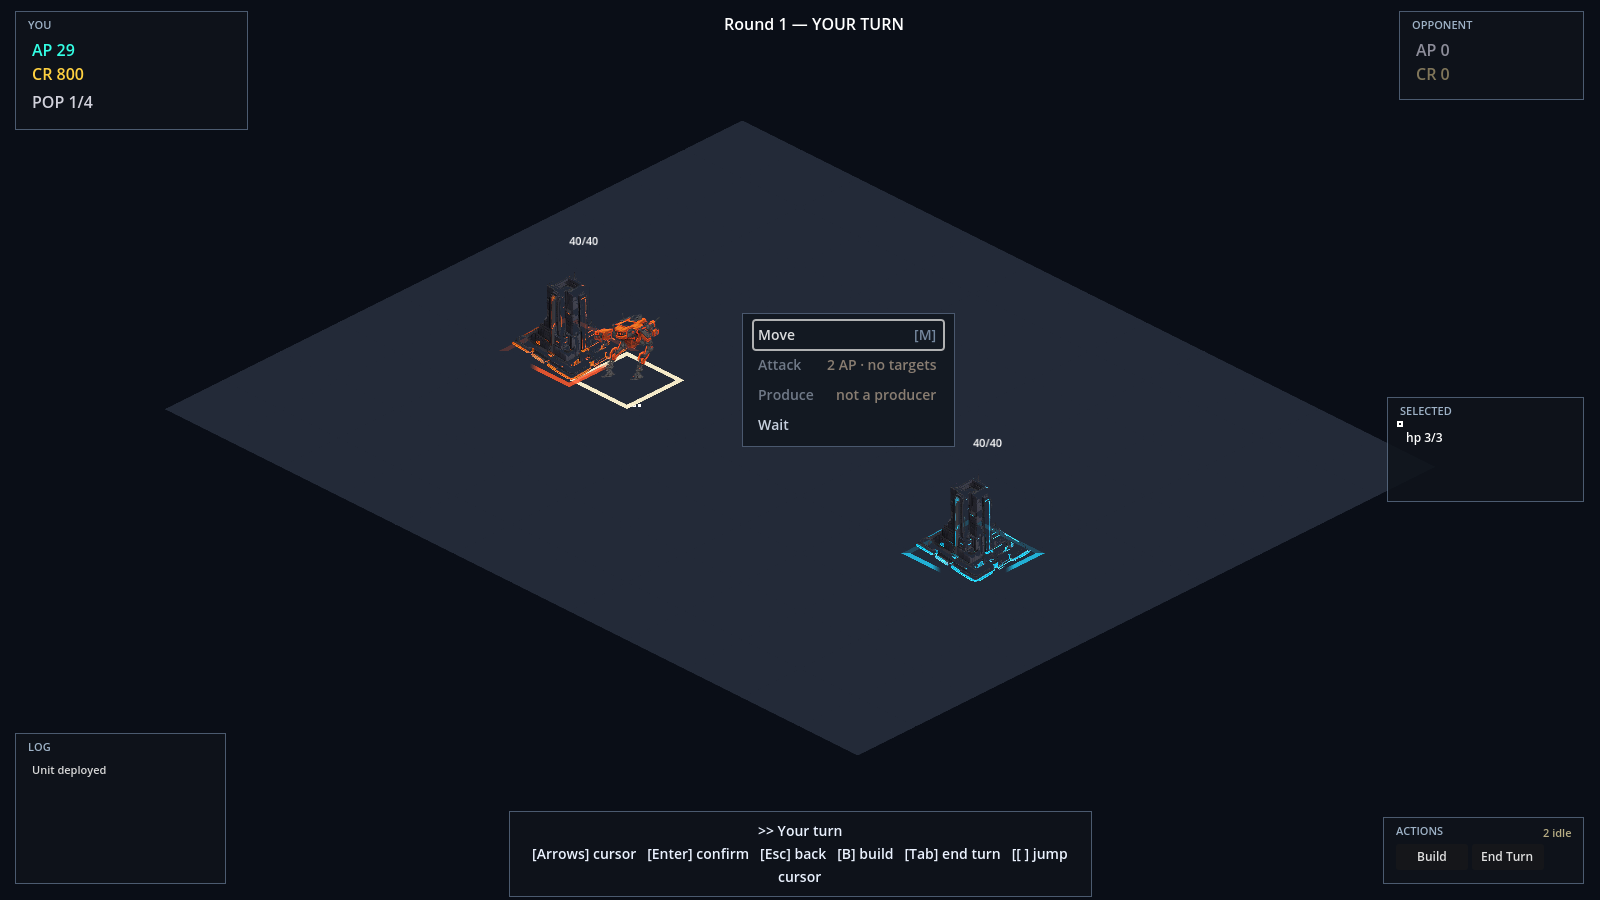
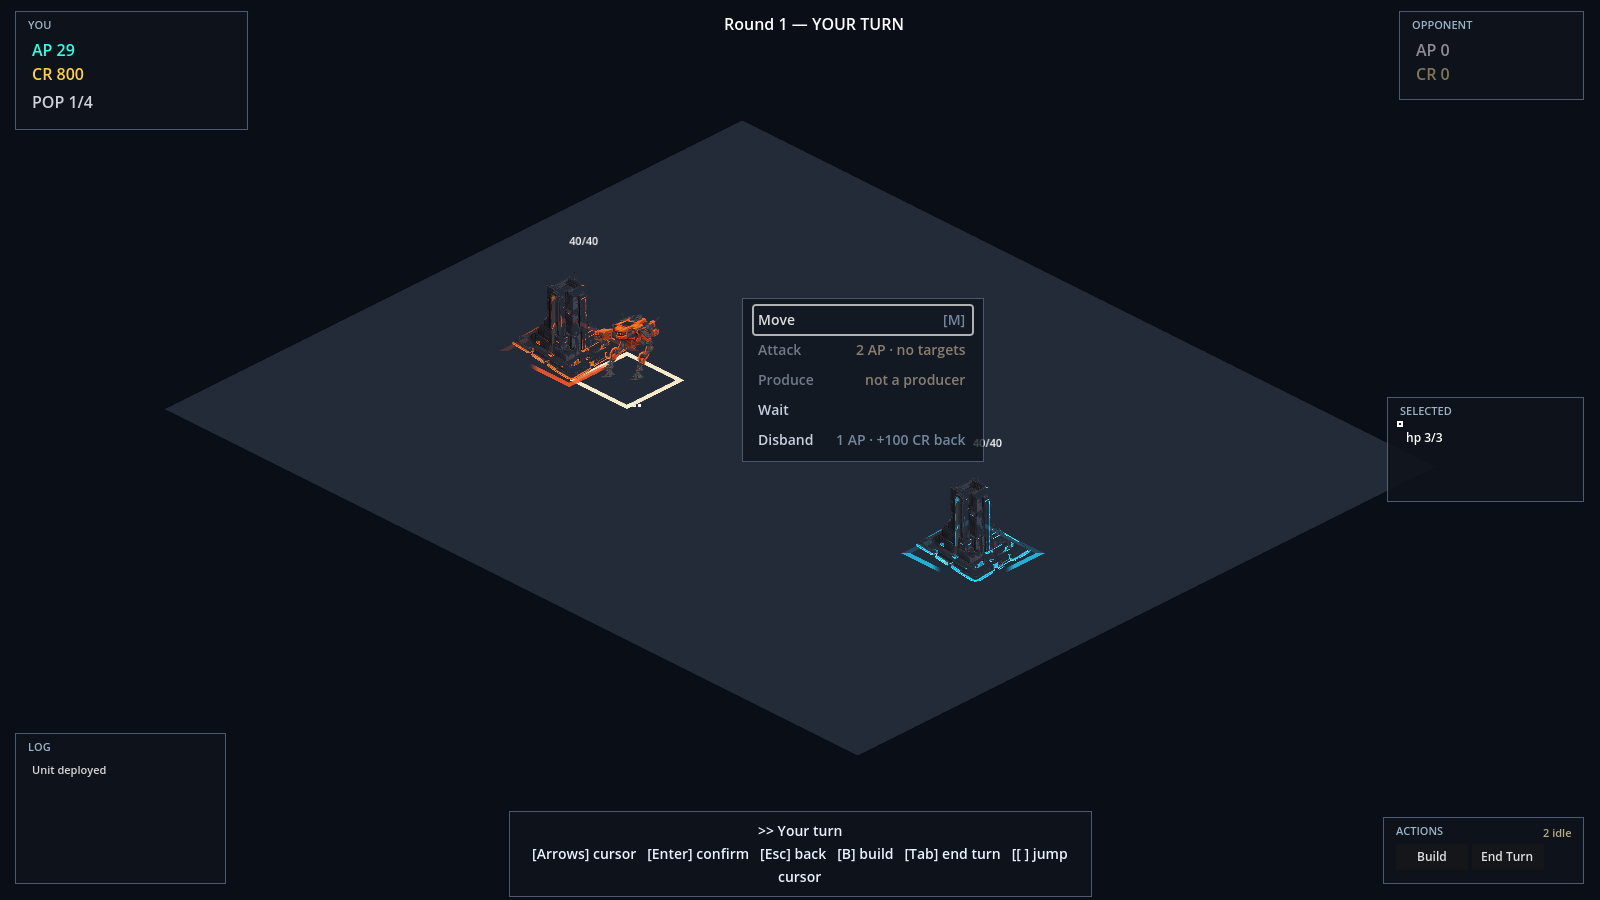
feat(cai): give Disband a menu row — resolves OQ-3, the last open question
DisbandAction has existed since S6-02 and was reachable from nothing at all: no
key, no button, no row. It is the escape valve unit-upkeep.md UR-7 builds the
whole deficit lock around, and a player in deficit had no way to reach it.

The row shows BOTH halves of the trade before either press — "1 AP · +100 CR
back". Disband is the only verb that spends and pays out, and a player weighing it
against simply holding the unit needs both figures, not one.

TWO PRESSES, like every destructive verb, and it matters more here than for
Cancel Build. Cancel Build only appears on an under-construction structure, which
is rare; Disband is on EVERY unit, EVERY turn. Without the gate an irreversible
action would sit one careless click away on almost every menu in the game. The
gate generalised cleanly — DESTRUCTIVE_VERBS is now the list that decides it, with
per-verb armed labels, because "Confirm cancel" on a Disband row would name the
wrong act at the exact moment the player is being asked to be sure. A test asserts
every verb on that list has an armed label: one missing from the list would commit
on a single press and nothing else would catch it.

Structures never get the row (UR-7), dropped rather than greyed — the same rule
that drops Cancel Build from a scout, now generalised to "disabled because it does
not apply to this KIND of entity" rather than being spelled per-verb. Disabled
because of the SITUATION still earns its row; that is what teaches the rules.
[…]

Changed region(s): [[0.4688, 0.3111, 0.625, 0.4978]]

diff --git a/design/ux/action-menu.md b/design/ux/action-menu.md
@@ -152,7 +152,7 @@ only placement that reads as belonging to its button.
 | Menu plate | `HudPanel` palette (`BACKING` / `BORDER`) so it reads as the same HUD, not as OS chrome | — (chrome, not interaction) |
 | Verb row | Label + right-hand column: the verb's AP price where it has a single one, then its shortcut or its disablement reason | **Standard Button** |
 | Disabled verb row | Same row, dimmed label + reason text; visible, never hidden, never recoloured | **Affordability Dimming** |
-| Cancel Build row | Shows the refund up front; arms on first activation, commits on second | **Hold-to-Confirm Refund** (toggle variant — see decision 5) |
+| Destructive rows (Cancel Build, Disband) | Show the payout up front; arm on first activation, commit on second, relabel while armed | **Hold-to-Confirm Refund** (toggle variant — see decision 5) |
 | Submenu plate | Second plate, same palette, listing produce/build options with dual costs | **Standard Button** + **Affordability Dimming** |
 | Focus indicator | Engine-native focus ring, a distinct `StyleBox` from hover | **Three-State Focus Indicator** |
 | Back-out | Right-click / ESC / pad B, one level per press | **Standard Cancel** |
@@ -433,7 +433,7 @@ those words describe is queried, never stored here.
   | Priced verb column (worst case) | "2 AP · no targets, needs AP" (27) | **54** | A price, a middle dot, then the multi-reason budget above. The widest right-hand column the verb menu can produce |
   | Unit / structure name | "Defensive Structure" (19) | **24** | Widens the picker only |
   | Cost line | "600 CR + 2 AP" (13) | **20** | Currency abbreviations are themselves translatable |
-  | Armed-confirm label | "Confirm cancel" (14) | **20** | Must stay visibly different from "Cancel Build", or the arm state reads as no change |
+  | Armed-confirm label | "Confirm cancel" (14), "Confirm disband" (15) | **20** | Must stay visibly different from its resting label ("Cancel Build", "Disband"), or the arm state reads as no change |
 
   ⚠ **The last row is a correctness constraint, not a layout one.** The arm-then-confirm gate
   (decision 5) works because the row visibly changes; a translation whose confirm label reads
@@ -475,6 +475,9 @@ depends on game rules, the *set-up* is stated so the expected result follows fro
 | AC-2 | Select a unit that has already moved and attacked this turn. The menu still opens; Wait is the only bright row and every other row is dimmed with a short phrase beside it saying why | Integration |
 | AC-3 | Click an enemy unit, then empty ground. No menu appears in either case; the SELECTED panel still shows what was clicked | Integration |
 | AC-4 | Select a unit with no enemy in range and zero AP. The Attack row names **both** problems, not just the first | Logic |
+| AC-28 | Select any of your units. A Disband row is present, stating both what it costs and what it returns. Activate it once: the unit survives and the row reads "Confirm disband". Activate again: the unit is gone and the Credits arrive | Integration |
+| AC-29 | Select a structure. There is no Disband row at all | Integration |
+| AC-30 | Arm Disband, then press Esc. The row reads "Disband" again, the unit is alive, and nothing was deselected | Integration |
 | AC-27 | Select a unit with an enemy adjacent and AP to spare. The Attack row states what attacking costs, alongside its shortcut, before any preview is opened. Drain the AP and re-select: the row still states the cost, now beside the reason | Integration |
 | AC-5 | With the menu open, press ↓ repeatedly. Focus visits only bright rows and never lands on a dimmed one. Clicking a dimmed row does nothing | Integration |
 | AC-6 | The menu never touches the sprite it belongs to: there is at least one tile of clear board between the entity and the menu's near edge | Logic |
@@ -534,8 +537,29 @@ accessibility item. It is now arm-then-confirm — see decision 5. *Kept visible
 "the two-step selection is already a confirmation" is a tempting argument and it was wrong, which is
 worth remembering.*
 
-**OQ-3 — Does the menu need a Disband row?** `DisbandAction` exists and is reachable from nothing.
-Out of scope here; named so it is not lost.
+**~~OQ-3~~ — RESOLVED 2026-08-25.** Disband now has a row on every own unit's menu, showing both
+halves of its trade up front (`1 AP · +100 CR back`) — it is the only verb that spends *and* pays
+out, and a player weighing it against simply holding the unit needs both figures before committing
+to anything. Structures never get the row at all (UR-7: structures are not disbanded), dropped
+rather than greyed, on the same rule that drops Cancel Build from a scout.
+
+**It takes two presses**, like every destructive verb — the *Hold-to-Confirm Refund* class. That
+matters more here than for Cancel Build: Cancel Build only appears on an under-construction
+structure, which is rare, whereas Disband is on **every unit, every turn**. Without the gate, an
+irreversible action would sit one careless click away on almost every menu in the game.
+`ActionMenu.DESTRUCTIVE_VERBS` is the list that decides this, and a test asserts every verb on it
+has an armed-state label — a destructive verb missing from the list would commit on one press with
+nothing else to catch it.
+
+**Not gated on the deficit lock**, deliberately: disband is the one action that *reduces* upkeep, so
+greying it out while in deficit would have the interface reintroduce the trap the rules were written
+to avoid (UR-7).
+
+⚠ **Open, and worth a playtest**: whether a permanently-visible Disband row is the right amount of
+prominence for an action most players will use rarely. The alternative is showing it only while in
+deficit — safer and tidier, but it hides a legitimate action (freeing population cap is a real
+non-deficit reason to disband). Shipped always-visible because a verb a player cannot find is worse
+than one they must confirm.
 
 **~~OQ-5~~ — RESOLVED 2026-08-24.** The menu said "no route" to a unit standing in open ground
 that had simply run out of AP. `Movement.reachable()` applies its affordability cut *inside* the
